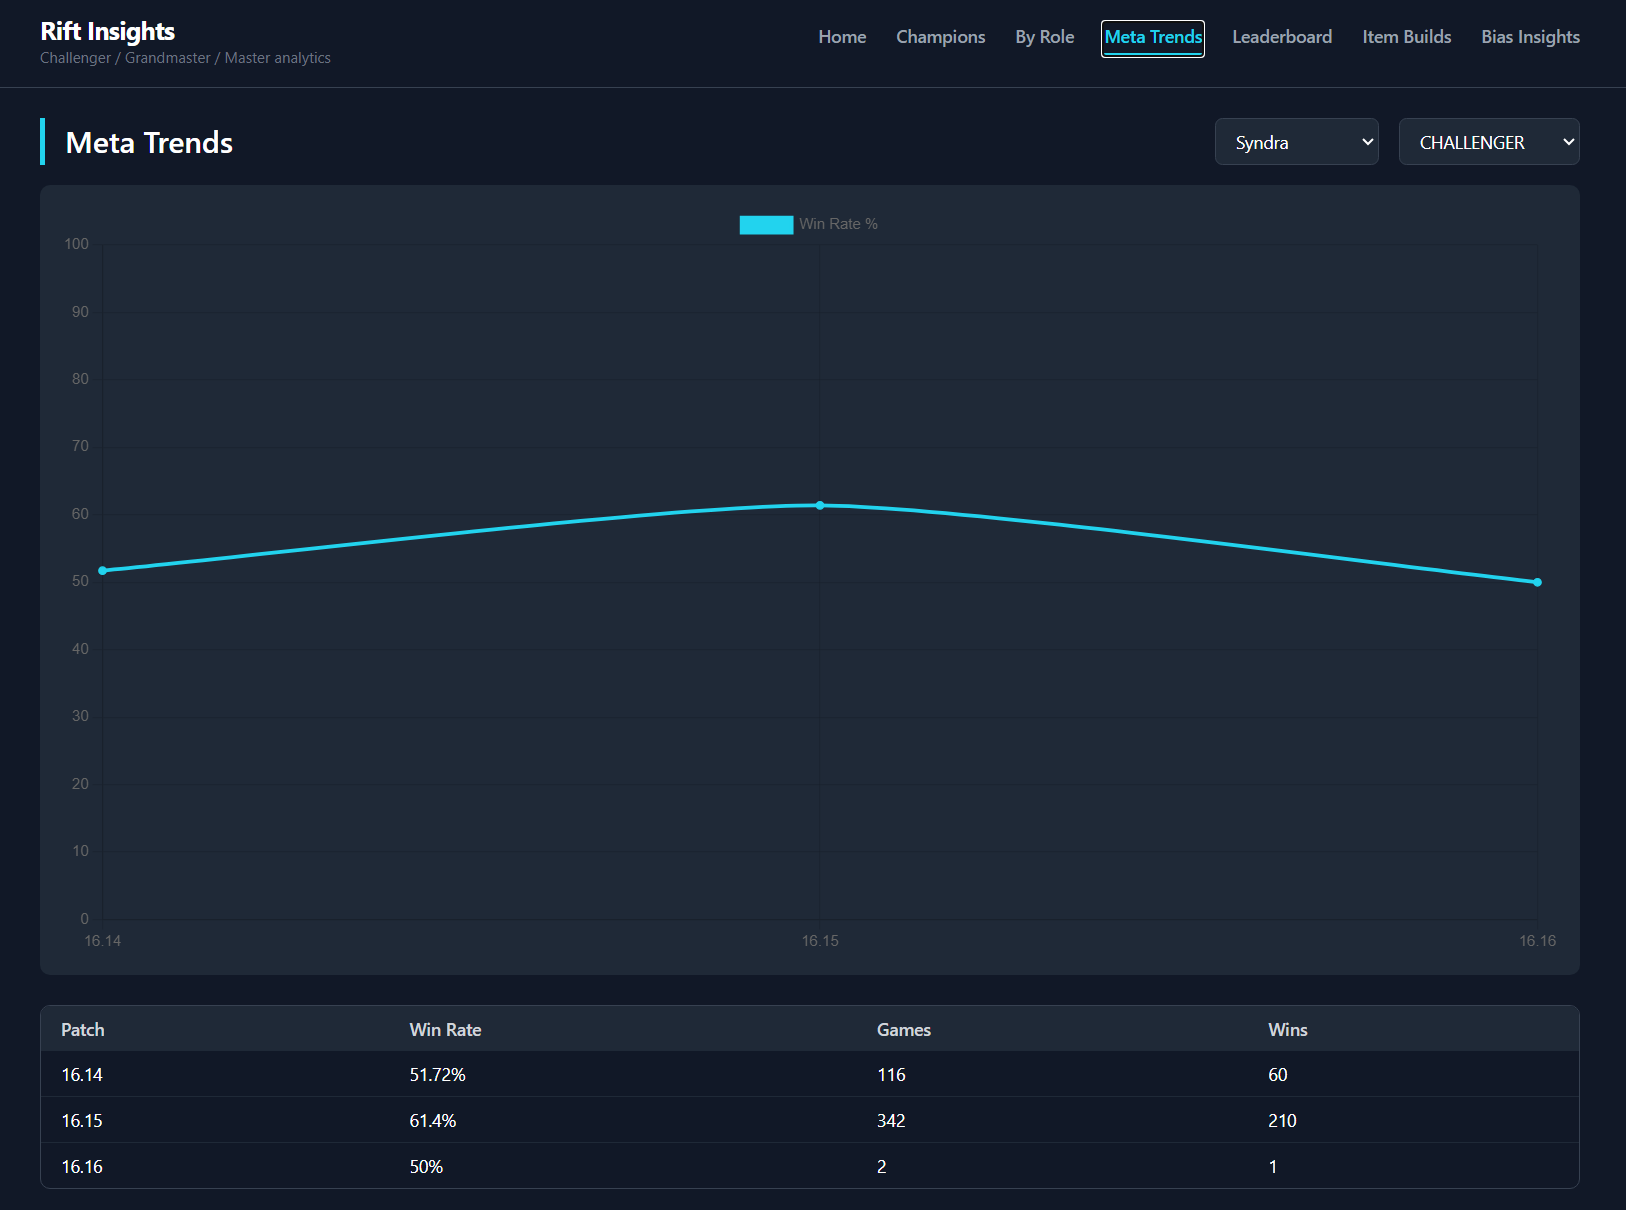
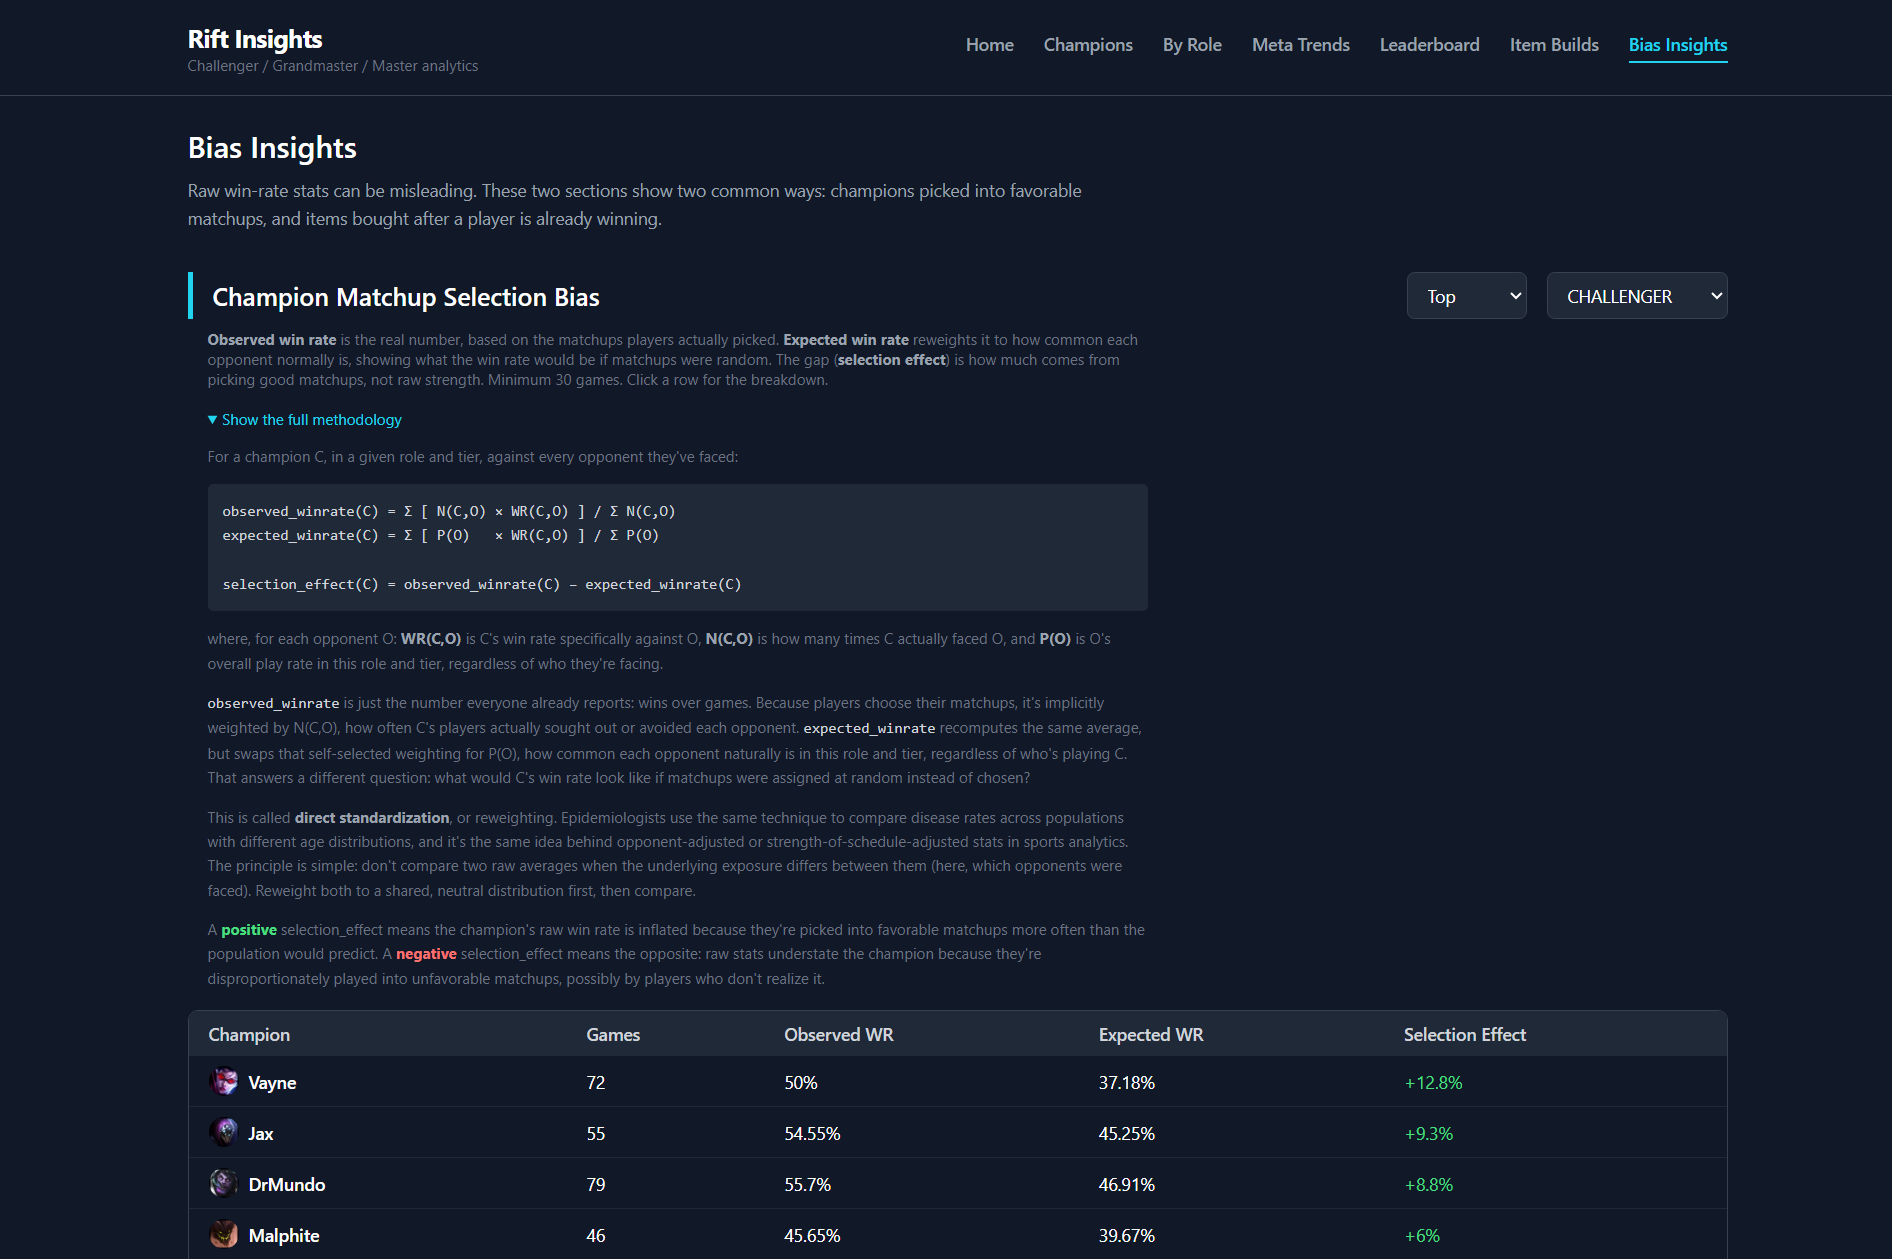
Swap Riot Games project screenshots to bias insights and match history views

diff --git a/index.html b/index.html
@@ -932,8 +932,8 @@
             </ul>
           </div>
           <div class="project-shots">
-            <img src="riot1.png" alt="Rift Insights meta trends chart showing champion win rate across patches" onclick="openLightbox(this.src)">
-            <img src="riot2.png" alt="Rift Insights bias insights page showing selection-effect methodology and results" onclick="openLightbox(this.src)">
+            <img src="riot1.png" alt="Rift Insights bias insights page showing selection-effect methodology and results" onclick="openLightbox(this.src)">
+            <img src="riot2.png" alt="Rift Insights player profile showing rank, record, and recent match history" onclick="openLightbox(this.src)">
           </div>
         </article>
 
